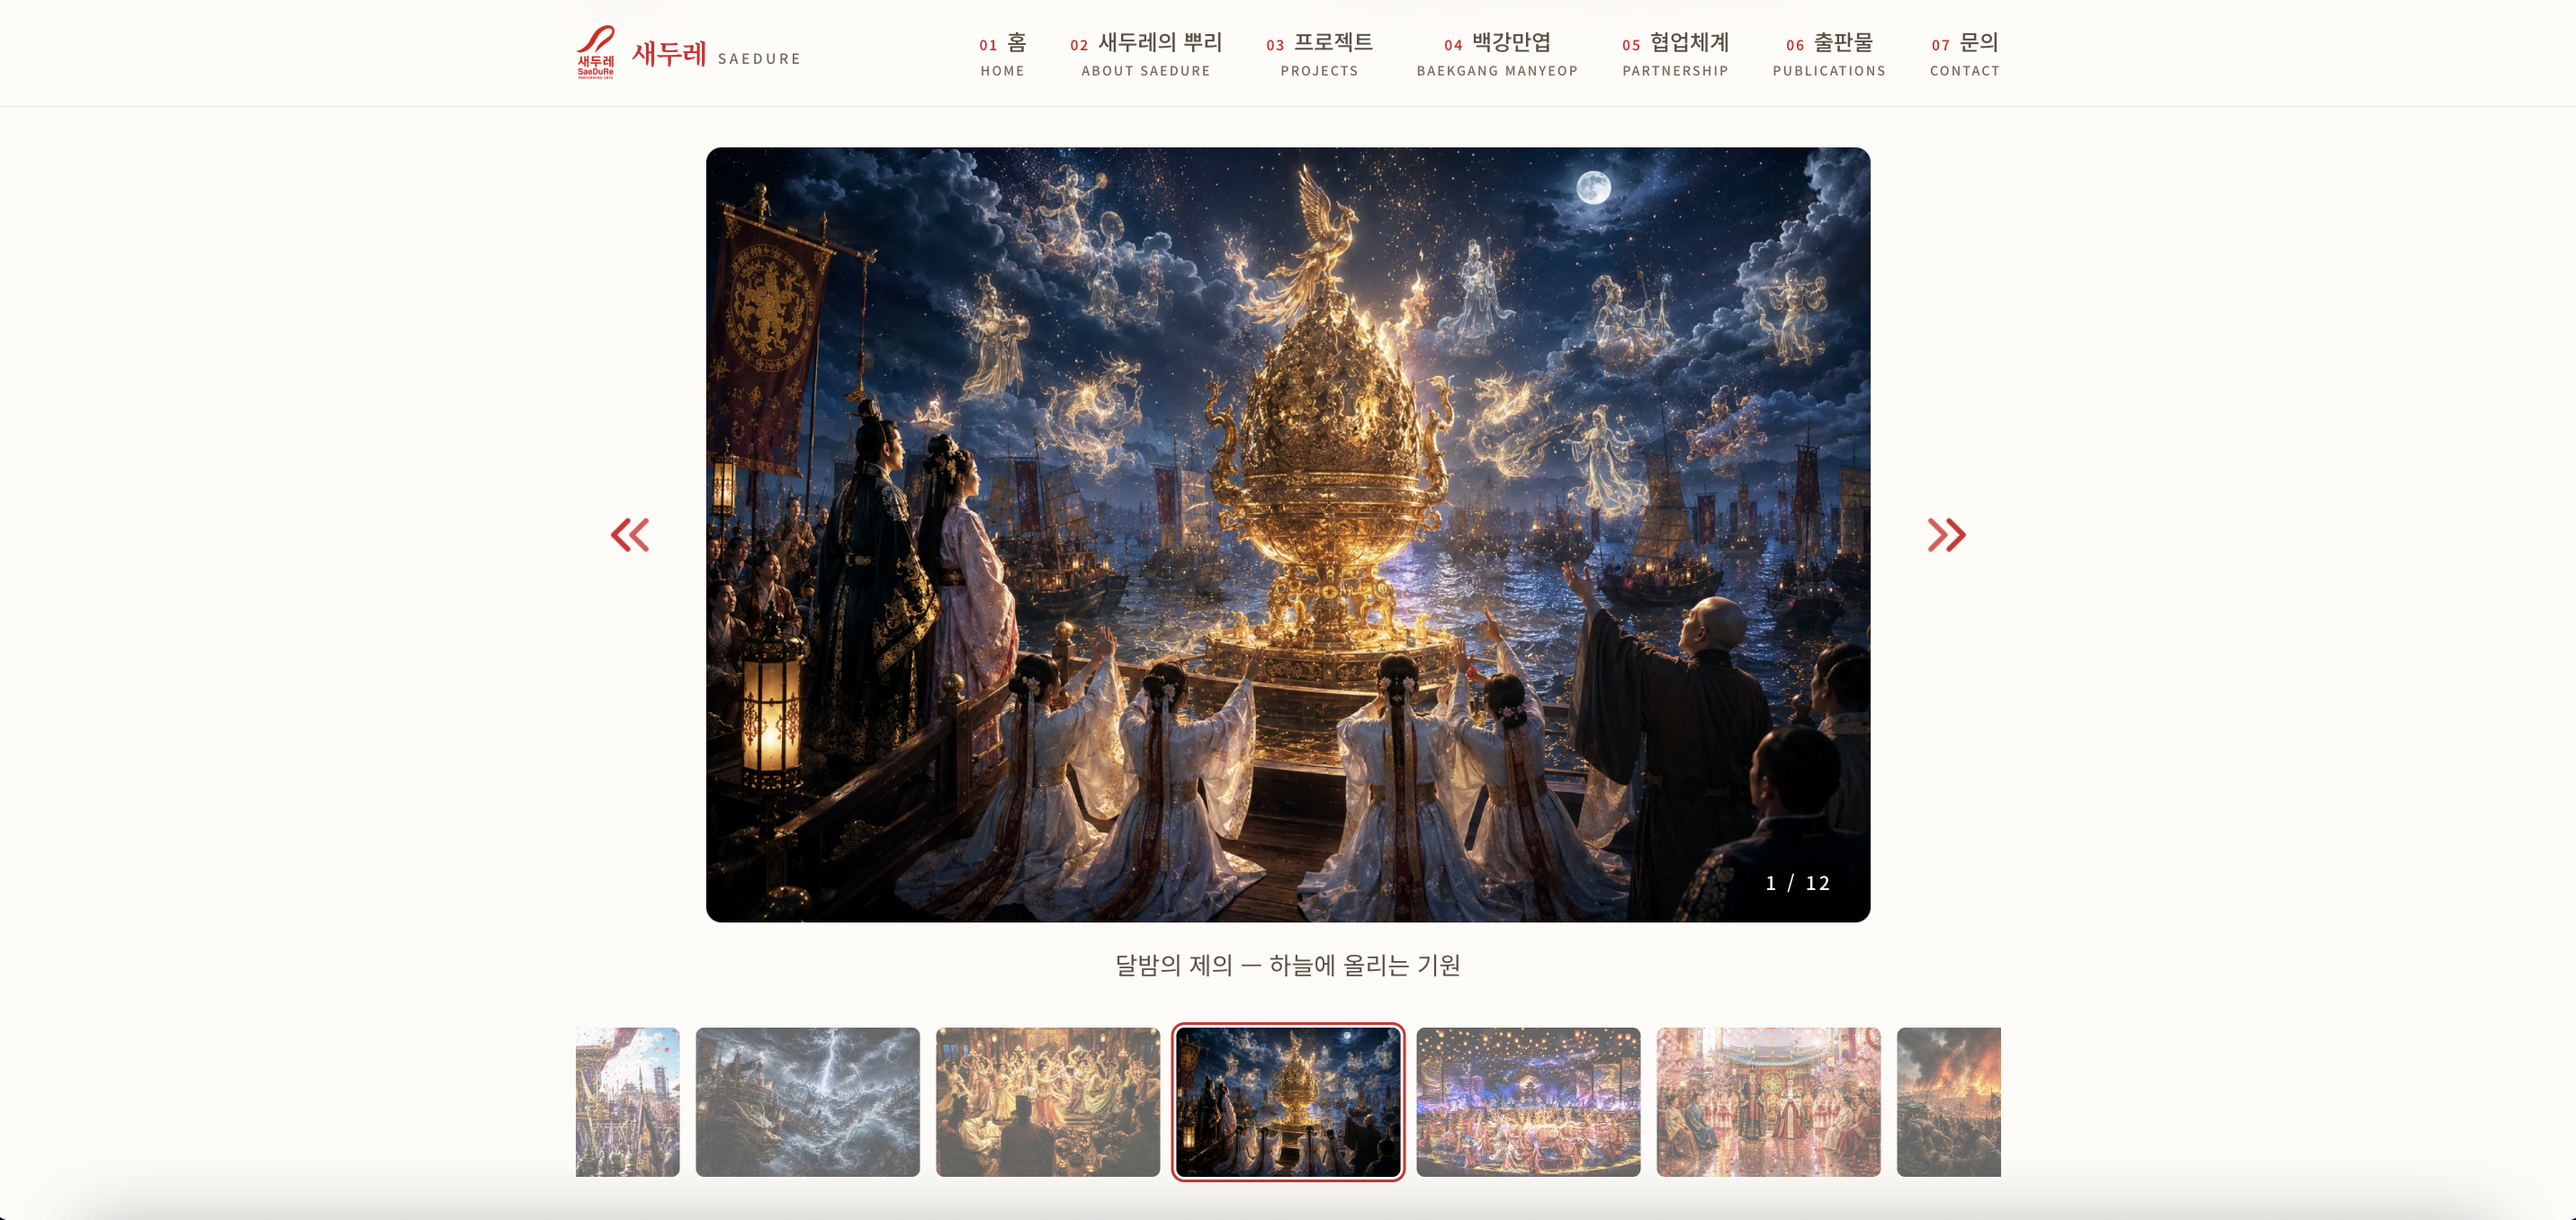
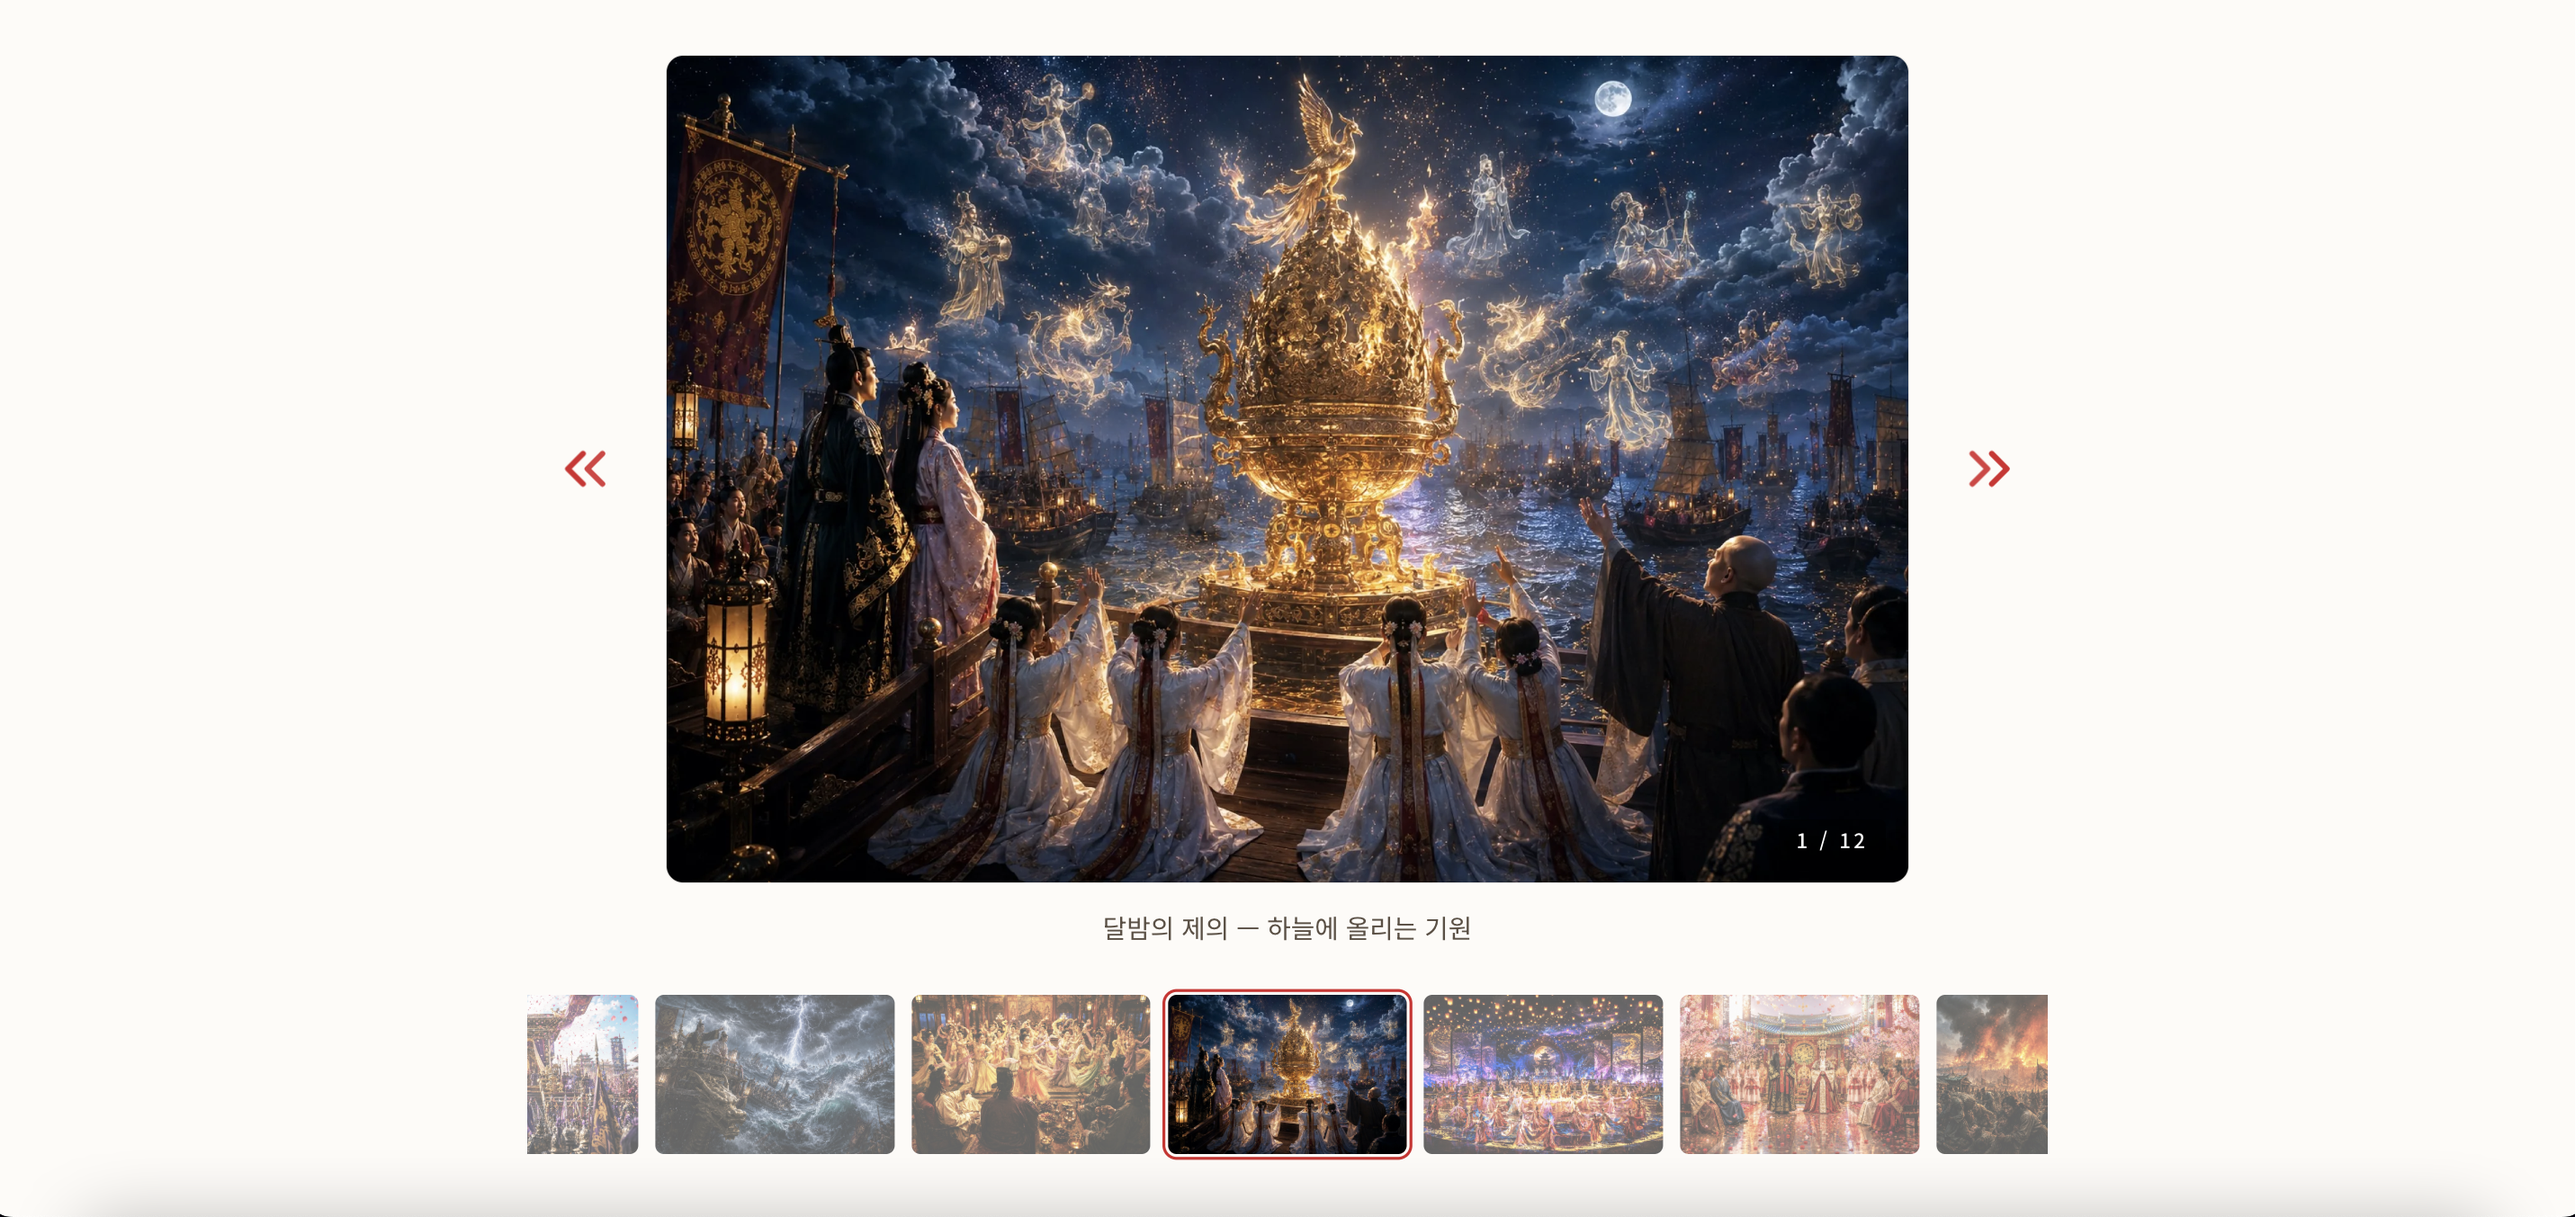
fix : 새두레 사례 사진 교체 및 모바일 히어로 3px 상향

diff --git a/components/home/PortfolioCarousel.tsx b/components/home/PortfolioCarousel.tsx
@@ -16,7 +16,7 @@ const SLIDES = [
     src: '/images/cases/cases-saedure-01.webp',
     alt: '새두레 융복합 공연 문화기업 홈페이지 제작 사례',
     url: 'https://saedure.vercel.app/',
[2 lines of base64/hex data omitted]
   },
   {
     src: '/images/main/main-portfolio-01.webp',

diff --git a/components/home/HeroBanner.tsx b/components/home/HeroBanner.tsx
@@ -269,6 +269,8 @@ export default function HeroBanner() {
             gap: 0.4rem;
             margin-bottom: 0.85rem;
           }
+          /* 모바일: 히어로 콘텐츠 전체 3px 위로 */
+          .hero-inner { transform: translateY(-3px); }
           /* 칩은 내리고(+12) 타이틀은 올려서(-12) 둘 사이 중간 지점에서 만나게 —
              벌어져 있던 간격(약 34px)을 10px 정도로 좁힌다 */
           .hero-eyebrow { transform: translateY(2px); }
